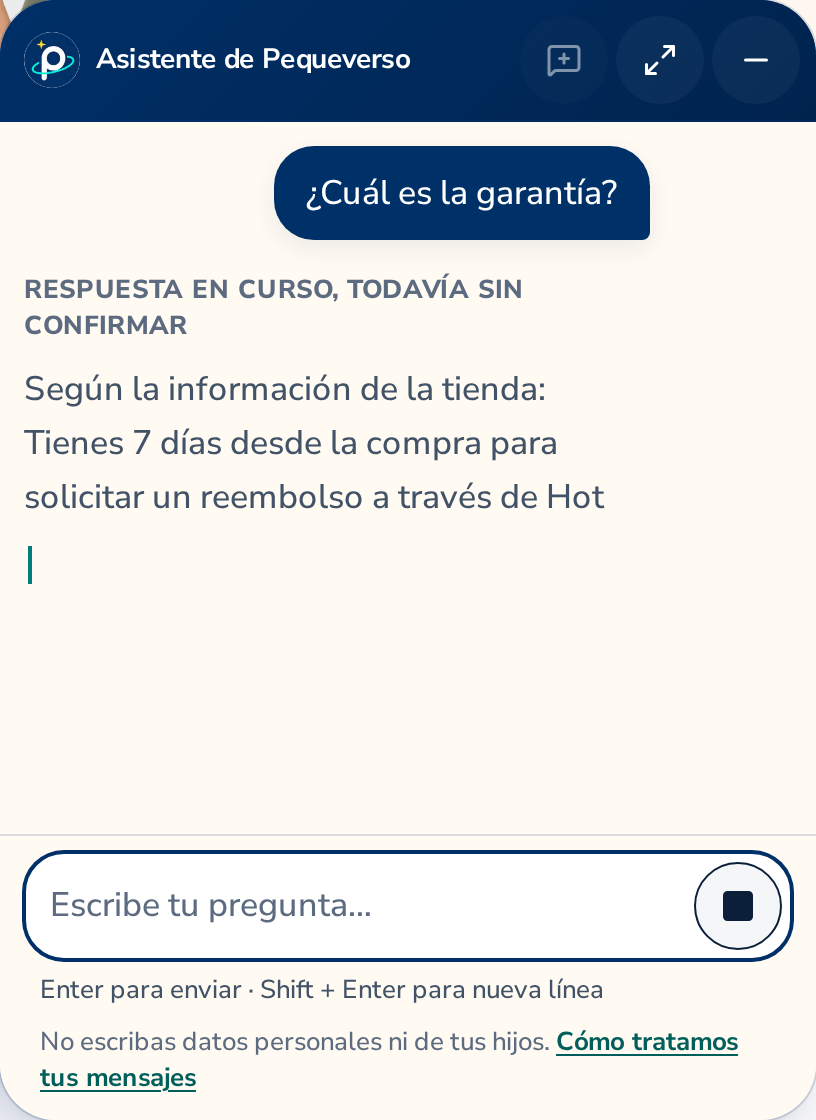
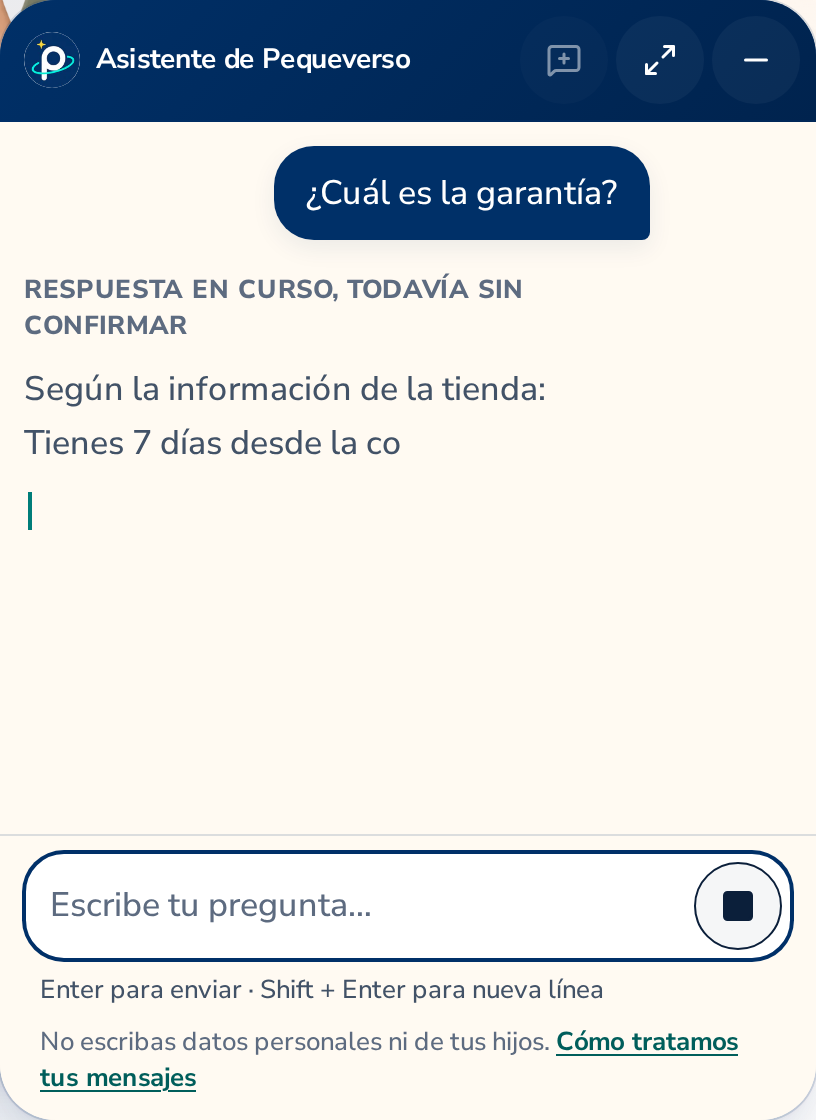
test(assistant): measure settled controls and refresh reviewed previews
Wait for the panel's own finite entrance animation before preserving exact 44 px geometry assertions. Give each resource-selection viewport its existing 45 s case and strengthen same-runtime 320/390 draft and history continuity.

Verified lint and both strict TypeScript checks. Full source351 check, fixture build, scanner and separately reviewed 14-photo gallery passed; original CI351 native failures and local WebKit deadline are preserved. New exact-head browser revalidation and complete CI remain required. Production assistant stays disabled; no provider calls or VPS deployment.

Changed region(s): [[0.0306, 0.4375, 0.7353, 0.4688], [0.4902, 0.375, 0.674, 0.4062], [0.0306, 0.5, 0.0613, 0.5312]]

diff --git a/tests/assistant/assistant.spec.ts b/tests/assistant/assistant.spec.ts
@@ -95,49 +95,49 @@ test.describe("native assistant (enabled verification build, fixture API)", () =
     await shot(page, info.project.name, "star-launcher-open");
   });
 
-  test("a partial resource selection is distinguished from the full nine-PDF kit at 200 percent", async ({
-    page,
-  }) => {
-    const extra = grafismoResources.find((resource) => resource.id === "silabas-en-tus-manos");
-    if (!extra) throw new Error("The regression needs an actual published kit resource");
-    const sample = readFileSync("contracts/assistant-api/examples/stream.recommendation.sse", "utf8");
-    // This is a deterministic presentation fixture, not a backend/model/persistence claim.
-    const body = sample
-      .split("\n")
-      .map((line) => {
-        if (!line.startsWith("data: ")) return line;
-        const event = JSON.parse(line.slice(6)) as Record<string, unknown>;
-        if (event.type !== "message.completed") return line;
-        const message = event.message as Record<string, unknown>;
-        const selected = message.resources as unknown[];
-        if (selected.length !== 2) throw new Error("Review the pinned recommendation example selection");
-        return `data: ${JSON.stringify({
-          ...event,
-          message: {
-            ...message,
-            resources: [
-              ...selected,
-              {
-                id: `grafismo-fonetico/${extra.id}`,
-                product_id: "grafismo-fonetico",
-                title: extra.title,
-                pages: extra.pages,
-                description: extra.description,
-                image: null,
-              },
-            ],
-          },
-        })}`;
-      })
-      .join("\n");
-    await page.route(`${API}/api/v1/messages`, (route) =>
-      route.fulfill({
-        status: 200,
-        contentType: "text/event-stream",
-        body,
-      }),
-    );
-    for (const width of [320, 390]) {
+  for (const width of [320, 390]) {
+    test(`a partial resource selection is distinguished from the full nine-PDF kit at 200 percent (${width}px)`, async ({
+      page,
+    }) => {
+      const extra = grafismoResources.find((resource) => resource.id === "silabas-en-tus-manos");
+      if (!extra) throw new Error("The regression needs an actual published kit resource");
+      const sample = readFileSync("contracts/assistant-api/examples/stream.recommendation.sse", "utf8");
+      // This is a deterministic presentation fixture, not a backend/model/persistence claim.
+      const body = sample
+        .split("\n")
+        .map((line) => {
+          if (!line.startsWith("data: ")) return line;
+          const event = JSON.parse(line.slice(6)) as Record<string, unknown>;
+          if (event.type !== "message.completed") return line;
+          const message = event.message as Record<string, unknown>;
+          const selected = message.resources as unknown[];
+          if (selected.length !== 2) throw new Error("Review the pinned recommendation example selection");
+          return `data: ${JSON.stringify({
+            ...event,
+            message: {
+              ...message,
+              resources: [
+                ...selected,
+                {
+                  id: `grafismo-fonetico/${extra.id}`,
+                  product_id: "grafismo-fonetico",
+                  title: extra.title,
+                  pages: extra.pages,
+                  description: extra.description,
+                  image: null,
+                },
+              ],
+            },
+          })}`;
+        })
+        .join("\n");
+      await page.route(`${API}/api/v1/messages`, (route) =>
+        route.fulfill({
+          status: 200,
+          contentType: "text/event-stream",
+          body,
+        }),
+      );
       await page.setViewportSize({ width, height: 844 });
       await page.goto("/soporte/");
       await page.addStyleTag({ content: "html { font-size: 200% !important; }" });
@@ -197,8 +197,8 @@ test.describe("native assistant (enabled verification build, fixture API)", () =
         path: `${SHOTS}/resource-selection-${test.info().project.name}-${width}.png`,
         animations: "disabled",
       });
-    }
-  });
+    });
+  }
 
   test("short question chips retain and send the complete API question", async ({ page }, info) => {
     const calls = apiCalls(page);
@@ -679,8 +679,12 @@ test.describe("native assistant (enabled verification build, fixture API)", () =
     await composer(page).fill("Mi borrador sin enviar");
     await panel(page).getByRole("button", { name: "Ampliar panel" }).click();
     await expect(composer(page)).toHaveValue("Mi borrador sin enviar");
-    await page.setViewportSize({ width: 390, height: 844 });
-    await expect(composer(page)).toHaveValue("Mi borrador sin enviar");
+    for (const width of [320, 390, 320, 390]) {
+      await page.setViewportSize({ width, height: 844 });
+      await expect(composer(page)).toHaveValue("Mi borrador sin enviar");
+      await expect(panel(page).getByText("¿Qué incluye el kit?", { exact: true })).toHaveCount(1);
+      await expect(panel(page)).toHaveAttribute("data-phase", "completed");
+    }
     await page.setViewportSize({ width: 1440, height: 1000 });
     await panel(page).getByRole("button", { name: "Minimizar asistente" }).click();
     await expect(launcher(page)).toHaveAccessibleName("Abrir el asistente de Pequeverso");
@@ -849,6 +853,16 @@ test.describe("native assistant (enabled verification build, fixture API)", () =
         await page.goto("/soporte/");
         await openPanel(page);
         await expect(panel(page).getByRole("combobox")).toHaveCount(0);
+        // Ready can precede the panel's finite entrance animation. Measure its final layout,
+        // without waiting for descendant typing indicators or relaxing the 44 px target.
+        await panel(page).evaluate(async (element) => {
+          await Promise.all(
+            element
+              .getAnimations()
+              .filter((animation) => Number.isFinite(animation.effect?.getComputedTiming().endTime))
+              .map((animation) => animation.finished),
+          );
+        });
         const controls = panel(page).locator("header button");
         for (const control of await controls.all()) {
           const box = await control.boundingBox();

diff --git a/docs/verification/assistant.md b/docs/verification/assistant.md
@@ -82,7 +82,8 @@ The price date is also labelled “Referencia del catálogo del ….”: legacy 
 export reference date, not a live Hotmart confirmation. Prices, dates and tax/conversion notes
 are unchanged; final payment totals remain Hotmart's responsibility. Render regressions forbid
 the old “Precio confirmado” claim. Original gallery/CI receipts are retained; affected photographs
-require a new exact-source gallery and independent review.
+were recaptured uniformly at `3514aca`; implementing and independent agents inspected all 14
+selected images at original detail. The original `8865edd` photography remains preserved.
 
 For subset/source-scanner increment `0fa4d4dc78a3b8de9ab03431f91f5fb66a9054c3`, full check passed
 173.552 s (160 unit tests, disabled export/guard127), skills0.915 s and fixture build79.612 s.
@@ -94,8 +95,29 @@ an empty-history repository also failed. The first wording-only negative control
 because the hash line was not added in that Git diff; its insufficient result is preserved.
 No audit commit was pushed, no history was rewritten, and no real key was read or printed.
 
-The later catalog-date increment still needs its own exact-source full build/browser/CI and
-photography receipts before integration.
+Catalog-date source `3514aca` passed full check (93.937 s), skills (0.470 s), and the
+isolated enabled fixture build (73.984 s). Its 18-case affected run remains **13 passed,
+4 conditional preview skips, 1 WebKit-mobile deadline, 0 flaky and 0 retries** (298.408 s test,
+303.454 s process). The original trace passed the 320 px subset geometry, then exhausted the
+shared 45 s deadline while reaching the 390 px visibility assertion. Neither a clipped-content
+cause nor a successful second-width assertion is claimed.
+
+The exact-source [CI 38316958678](https://github.com/gonzalomartinperez/pequeverso/actions/runs/38316958678)
+failed the native gate: **170 passed, 47 conditional skips, 7 failed and 4 flaky**. All failures
+and retries were in the new header geometry test. A separate actual-browser mutation/animation
+probe established `ready` during the own 220 ms panel entrance: computed target 44 px, running
+scale 0.990912, rendered width 43.600098 px. After the animation the transform was `none` and
+width exactly 44 px. The test now waits only for finite animations owned by the panel before
+measuring, preserving `>= 44`, every focus/geometry check and the existing deadlines/retries.
+The negative 43.99 px control still fails. The two subset widths are separate 45 s cases with
+identical assertions; the existing continuity case now also preserves draft/history across
+320↔390 resizes and retains its one-session/one-message assertions.
+
+A separate portable photography run at `3514aca` passed exactly two cases (78.862 s test,
+85.322 s process), with zero failures/flaky/retries. All 14 selected DPR-2 PNGs now show the
+current catalog-reference copy. Photography is not acceptance for the failed native gate.
+The originals, both failed runs and diagnostic probe remain preserved. The later test-only
+correction still requires affected browser revalidation and a completely green exact-head CI.
 
 No provider calls, key reads, deployment or activation occurred in these storefront checks.
 Enabled previews are local fixture artifacts; every publishable export must still pass the strict

diff --git a/docs/verification/assistant/2026-10-12/README.md b/docs/verification/assistant/2026-10-12/README.md
@@ -9,12 +9,13 @@ Panel details are element screenshots, not enlarged layouts, generated mockups o
 verification artifact. The fixture API exercises sessions, cookies, CSRF and HTTP/SSE over
 throwaway self-signed HTTPS loopback. These photographs do not validate the model or the VPS.
 
-Build: `8865edd5ff9fe471f1eb335a195a33cbc8662898`; presentation runtime:
-`ec32eb1a3bbcd11eae49f20dfb6da670ddce4b5d`; reviewed backend source commit:
+Build: `3514aca47482d6e57a8db224defa7dbad8990096`; presentation runtime:
+`3514aca47482d6e57a8db224defa7dbad8990096`; reviewed backend source commit:
 `b7dcb0c27d214cb1b560a8ee6101f858545646fc` (public contract v1, revision 1.4).
 The [manifest](manifest.json) records dimensions, file hashes, configuration and capture receipts.
-The implementing agent and an independent agent inspected all 14 selected PNGs at original detail
-and approved their legibility, alignment and composition. This is agent review, not human review.
+The implementing agent and ROOT independent agent individually inspected all 14 selected PNGs
+at original detail and approved their legibility, alignment and composition. This is agent review,
+not human review.
 
 ## The panel in the store
 
